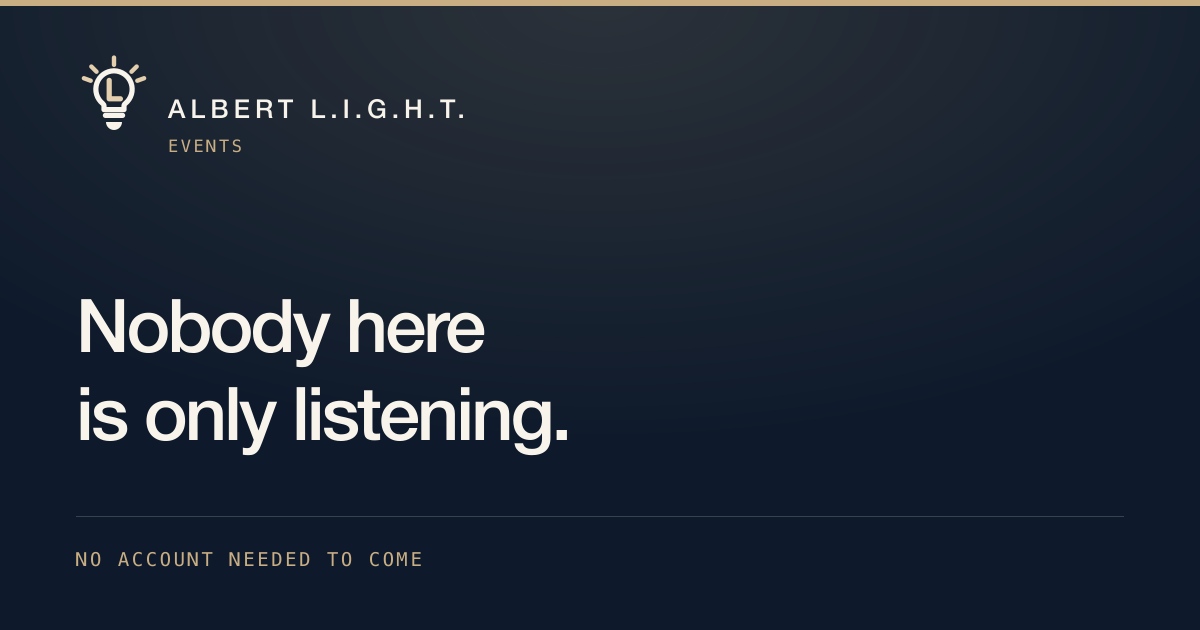
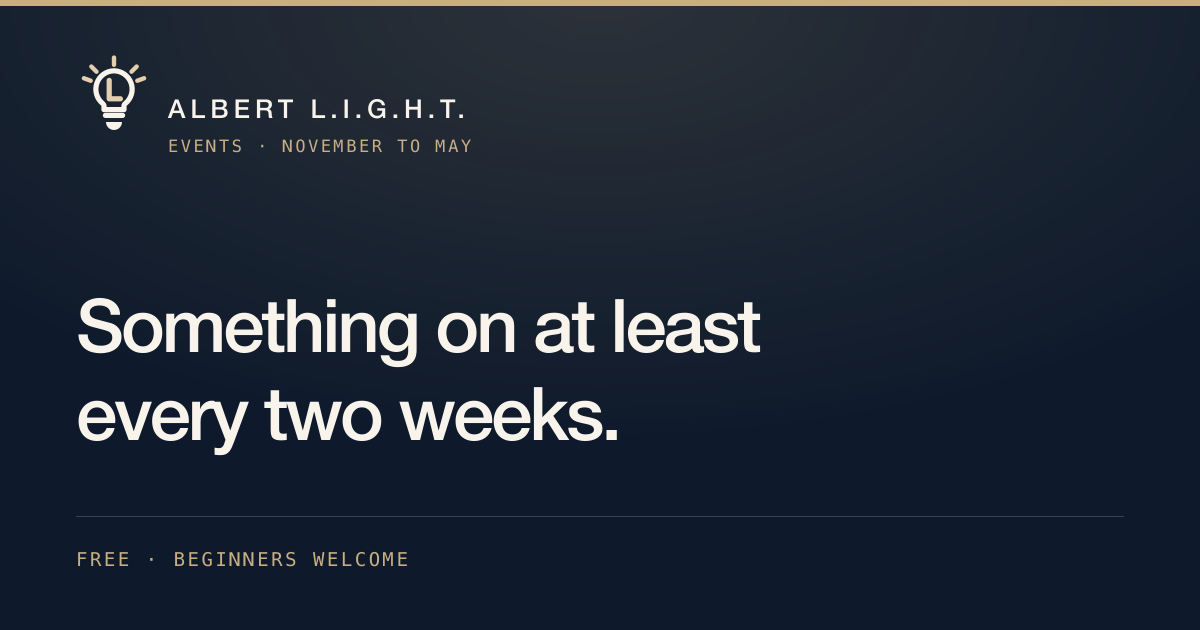
Share images that say what the site says, and a wider halo on phones
The Open Graph cards still carried the consulting-era copy —
"Understand AI at work", "Six students. No staff.", "HACKATHONS ·
WORKSHOPS · TALKS" — so a link shared on LinkedIn would have
contradicted the page it opened. Rewritten to the current positioning
and regenerated, dark, with the bulb mark.

On phones the fixed halo's clear core goes from 9% to 11.5%: the
countdown sat at its edge and read dim.

A fresh tab confirms zero console errors on / and /events/; the 404
seen earlier was a stale entry from a build that still referenced the
deleted photographs. Audit: 22 pages, zero defects.

Changed region(s): [[0.0617, 0.4524, 0.6475, 0.7238], [0.0617, 0.8746, 0.37, 0.9048], [0.2158, 0.2111, 0.4008, 0.2413]]

diff --git a/src/app/globals.css b/src/app/globals.css
@@ -1809,10 +1809,10 @@ body::after {
   background: radial-gradient(
     circle closest-side,
     transparent 0%,
-    transparent 9%,
-    rgb(7 13 22 / 0.4) 13%,
-    rgb(7 13 22 / 0.86) 19%,
-    #070d16 26%
+    transparent 11.5%,
+    rgb(7 13 22 / 0.4) 15.5%,
+    rgb(7 13 22 / 0.86) 22%,
+    #070d16 29%
   );
 }
 

diff --git a/SEO-CHECKLIST.md b/SEO-CHECKLIST.md
@@ -19,7 +19,7 @@ Dernière mise à jour : 4 novembre 2026.
 | `Organization` | avec `sameAs` (LinkedIn), `alternateName`, `foundingDate` |
 | Titres et descriptions | uniques sur chaque page |
 | `canonical` | sur chaque page |
-| Images | WebP, dimensions déclarées |
+| Audit statique | `node scripts/audit.mjs` — 22 pages, zéro défaut |
 
 ---
 
